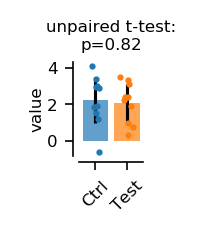
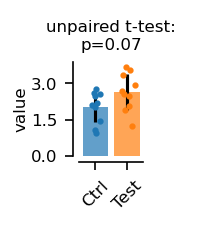
up

diff --git a/datavyz/bar_plots.py b/datavyz/bar_plots.py
@@ -71,7 +71,7 @@ def related_samples_two_conditions_comparison(graph,
                                               second_observations,
                                               with_annotation=True,
                                               xticks_rotation=0,
-                                              lw=.5,
+                                              lw=.5, bottom=0.,
                                               color1='#1f77b4', color2='#ff7f0e',
                                               ylabel='value',
                                               xticks=[0, 1],
@@ -92,11 +92,11 @@ def related_samples_two_conditions_comparison(graph,
     for i in range(len(first_observations)):
         ax.plot([0, 1], [first_observations[i], second_observations[i]], '-', lw=lw, color=colormap(i/(len(first_observations)-1)))
         
-    ax.bar([0], [np.mean(first_observations)], yerr=np.std(first_observations), color=color1, lw=lw)
-    ax.bar([1], [np.mean(second_observations)], yerr=np.std(second_observations), color=color2, lw=lw)
+    ax.bar([0], [np.mean(first_observations)], yerr=np.std(first_observations), color=color1, lw=lw, bottom=bottom)
+    ax.bar([1], [np.mean(second_observations)], yerr=np.std(second_observations), color=color2, lw=lw, bottom=bottom)
     
     if with_annotation:
-        graph.title(ax, 'paired t-test:\np=%.2f' % pval)
+        graph.title(ax, 'paired t-test:\np=%.1e' % pval)
         
     graph.set_plot(ax, ylabel=ylabel,
              xticks=xticks,
@@ -110,7 +110,7 @@ def unrelated_samples_two_conditions_comparison(graph,
                                                 second_observations,
                                                 with_annotation=True,
                                                 xticks_rotation=0,
-                                                lw=.5,
+                                                lw=.5, bottom=0.,
                                                 color1='#1f77b4', color2='#ff7f0e',
                                                 ylabel='value',
                                                 xticks=[0, 1],
@@ -125,11 +125,11 @@ def unrelated_samples_two_conditions_comparison(graph,
         ax.plot([0+np.random.randn()*.1], [first_observations[i]], 'o', ms=2, color=color1)
         ax.plot([1+np.random.randn()*.1], [second_observations[i]], 'o', ms=2, color=color2)
         
-    ax.bar([0], [np.mean(first_observations)], yerr=np.std(first_observations), color=color1, lw=lw, alpha=.7)
-    ax.bar([1], [np.mean(second_observations)], yerr=np.std(second_observations), color=color2, lw=lw, alpha=.7)
+    ax.bar([0], [np.mean(first_observations)], yerr=np.std(first_observations), color=color1, lw=lw, alpha=.7, bottom=bottom)
+    ax.bar([1], [np.mean(second_observations)], yerr=np.std(second_observations), color=color2, lw=lw, alpha=.7, bottom=bottom)
     
     if with_annotation:
-        graph.title(ax, 'unpaired t-test:\np=%.2f' % pval)
+        graph.title(ax, 'unpaired t-test:\np=%.1e' % pval)
         
     graph.set_plot(ax, ylabel=ylabel,
              xticks=xticks,
